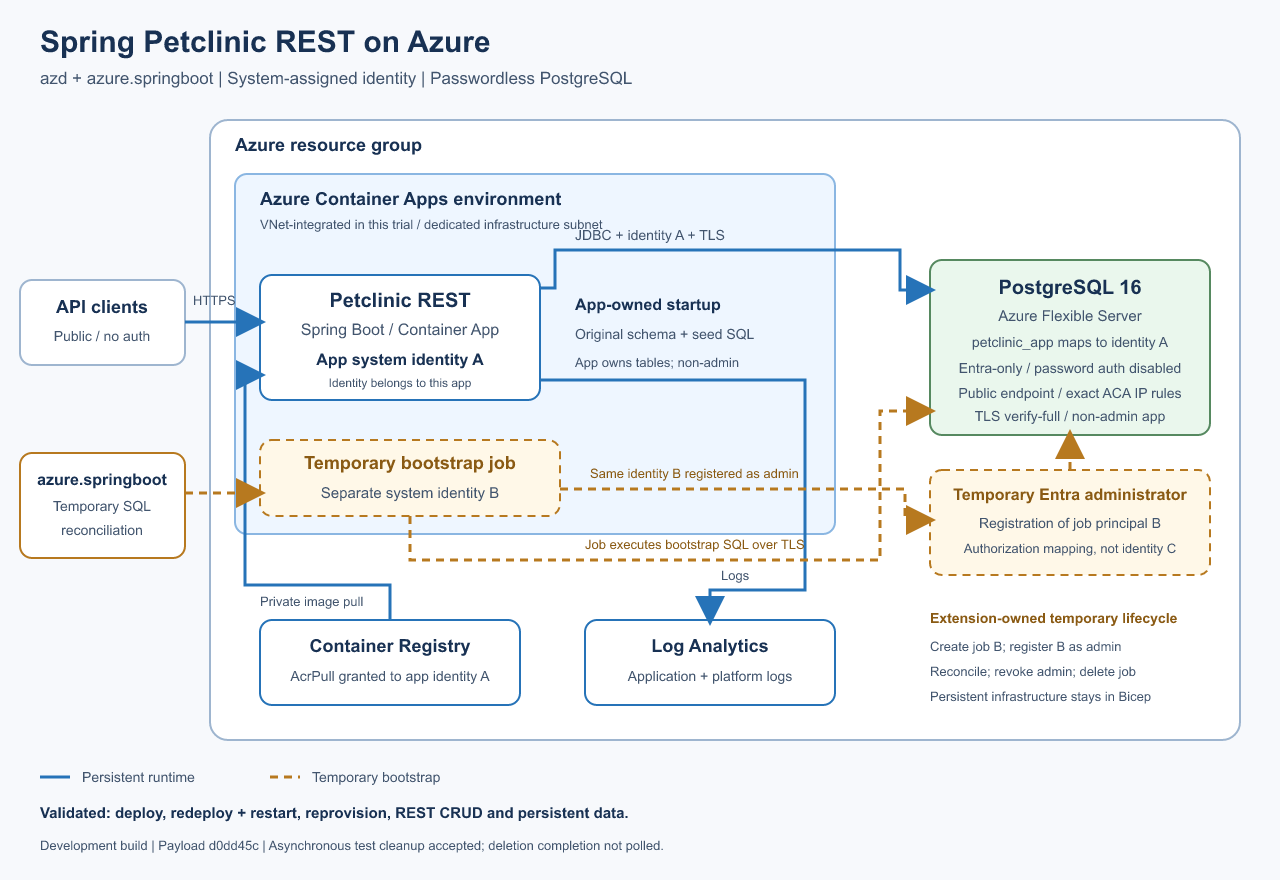
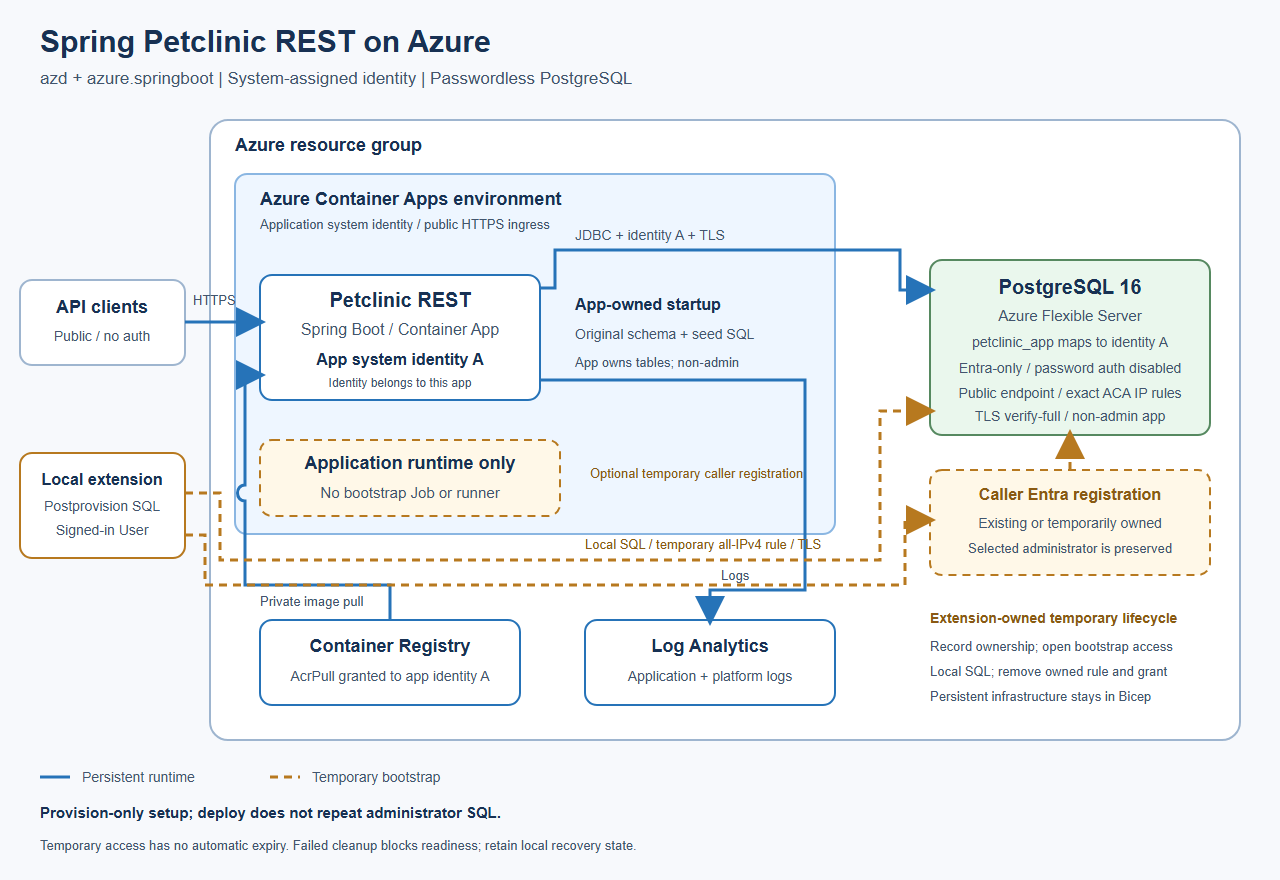
Document local provision-only PostgreSQL bootstrap and pin matching extension

diff --git a/README.md b/README.md
@@ -18,21 +18,22 @@ database user, but can create and manage its own tables. Do not use sensitive da
 
 See the [editable diagram](docs/images/architecture.svg) and
 [gallery submission assets](docs/gallery.md).
-The app and temporary job have distinct system-assigned identities. The job's
-temporary PostgreSQL administrator registration refers to that same job
-principal, not a third identity or an Azure RBAC role assignment.
+The app's system-assigned identity pulls its image and authenticates to
+PostgreSQL. Provision-only SQL runs in the local extension with the signed-in
+User, not in a deployed bootstrap Job.
 
 ## Deploy
 
 This branch requires a development build of the `azure.springboot` extension
-with extension-owned PostgreSQL job bootstrap support; installing azd alone
+with extension-owned local PostgreSQL bootstrap support; installing azd alone
 does not provide that unreleased capability. See the
 [extension development instructions](https://github.com/XiaofeiCao/azure-dev/blob/xiaofeicao-spring-boot-template-roadmap/cli/azd/extensions/azure.springboot/README.md#local-development-installation)
 on the `xiaofeicao-spring-boot-template-roadmap` branch. Pull that branch and install
 its matching local bundle **before `azd init`**, not just before deployment.
 Building the extension from source requires Go 1.26.4 or newer. The bundle route
 does not require `azd x publish` or a local extension registry.
-The deployment also needs its release-configured bootstrap runner image.
+No bootstrap runner image, image publication, or release-only build setting is
+required.
 
 Install [azd](https://aka.ms/azd-install) 1.37.2 or newer, JDK 17+ and Docker.
 Start Docker for packaging and sign in to azd with a User account that can access
@@ -103,8 +104,9 @@ identities, secrets, or permissions.
 
 The deploying identity needs resource creation and role-assignment permissions,
 such as Contributor plus Role Based Access Control Administrator at subscription
-scope, plus permission to manage Container Apps Jobs and PostgreSQL Entra
-administrators. The extension's supported `preprovision` lifecycle event prepares
+scope, plus permission to manage PostgreSQL firewall rules and Entra
+administrators. Conservative recovery of older prototype Jobs also needs
+permission to read/delete those Jobs. The supported `preprovision` event prepares
 the selected administrator for both `azd up` and standalone `azd provision`.
 There are no template preflight/preup preparation hooks. azd owns normal
 subscription/location selection; the extension uses host principal and
@@ -125,20 +127,31 @@ configures registry authentication as `system`. The service deployment keeps the
 same identity when switching to the private application image. Reprovisioning
 preserves the running image and identity.
 
-The recorded E2E used separate `azd provision` and
-`azd deploy spring-petclinic-rest-app` commands, with a registry-scoped `AcrPull`
-verification between them. This verification is an explicit test-harness step,
-not an additional template hook.
-
 After provisioning, the extension verifies the exact Container Apps outbound-IP
-firewall rules and maps the application identity to `petclinic_app`. SQL
-reconciliation runs from a short-lived Container Apps job in the deployed
-environment. The job receives temporary administrator access only for the bounded
-execution window, then the extension removes that access before deleting the job.
-The job has its own system-assigned identity, distinct from the application's.
-Its temporary PostgreSQL Entra administrator registration authorizes that same
-job principal; it is not another identity or an Azure RBAC role assignment.
-No unrestricted PostgreSQL firewall rule is created.
+firewall rules and maps the application identity to `petclinic_app`.
+Only `postprovision` reconciles administrator SQL. It temporarily creates an
+owned all-IPv4 rule (`0.0.0.0` through `255.255.255.255`) and connects locally
+with hostname-verified TLS. The local network must allow outbound TCP 5432;
+the rule does not override network restrictions or Azure Policy.
+
+The selected User remains the persistent administrator. A verified existing
+caller administrator is used without changing its login or deleting it.
+Otherwise, the extension temporarily registers the signed-in caller with a
+separate session login and removes only that registration afterward.
+SQL sessions close before cleanup, and absence of both temporary resources is
+checked before provisioning becomes ready.
+
+Cleanup failure fails the command and retains ownership state under
+`.azure/spring-postgres-bootstrap/` for a later `azd provision` from the same
+project. Do not remove pending recovery state. A killed process can leave
+access open; there is no automatic expiration, and firewall enforcement can
+lag resource deletion. Do not run overlapping provisioning from separate
+copies of the same environment.
+
+`azd deploy` checks current provisioning, datasource and runtime firewall
+bindings without administrator SQL. There is no postdeploy SQL ownership audit;
+rerun `azd provision` to reconcile database access. The exact runtime IP rules
+remain in infrastructure; no broad bootstrap rule is authored in Bicep.
 
 The infrastructure serializes PostgreSQL database creation, TLS configuration,
 exact-IP firewall rules and administrator registration. Flexible Server can reject
@@ -180,7 +193,7 @@ Open [Swagger UI](http://localhost:9966/petclinic/swagger-ui.html),
 
 ## Security and troubleshooting
 
-- Ingress is HTTPS-only; the bootstrap image has no public ingress.
+- Application ingress is HTTPS-only. There is no bootstrap Job or runner image.
 - PostgreSQL password authentication is disabled. The JDBC authentication plugin
   obtains tokens using the app's system-assigned managed identity, without an
   `azure.clientId` or `AZURE_CLIENT_ID` selector.
@@ -196,9 +209,10 @@ Open [Swagger UI](http://localhost:9966/petclinic/swagger-ui.html),
   database authentication remains required.
 - Do not commit `.azure/` or publish its contents.
 
-If identity bootstrap fails, check the signed-in tenant and the redacted Container
-Apps job diagnostic printed by the extension. Rerun `azd provision` after
-correcting the cause. Do not add an unrestricted PostgreSQL firewall rule.
+If bootstrap fails, check the signed-in User/tenant, local TCP 5432 connectivity,
+and the extension's cleanup diagnostic. Rerun `azd provision` after correcting
+the cause; retain its recovery state. Do not manually add a persistent
+unrestricted PostgreSQL firewall rule.
 
 On macOS or Linux, `mvnw` must be executable. If an existing copy reports
 `permission denied` when azd invokes `mvnw`, run `chmod +x ./mvnw`, then retry
